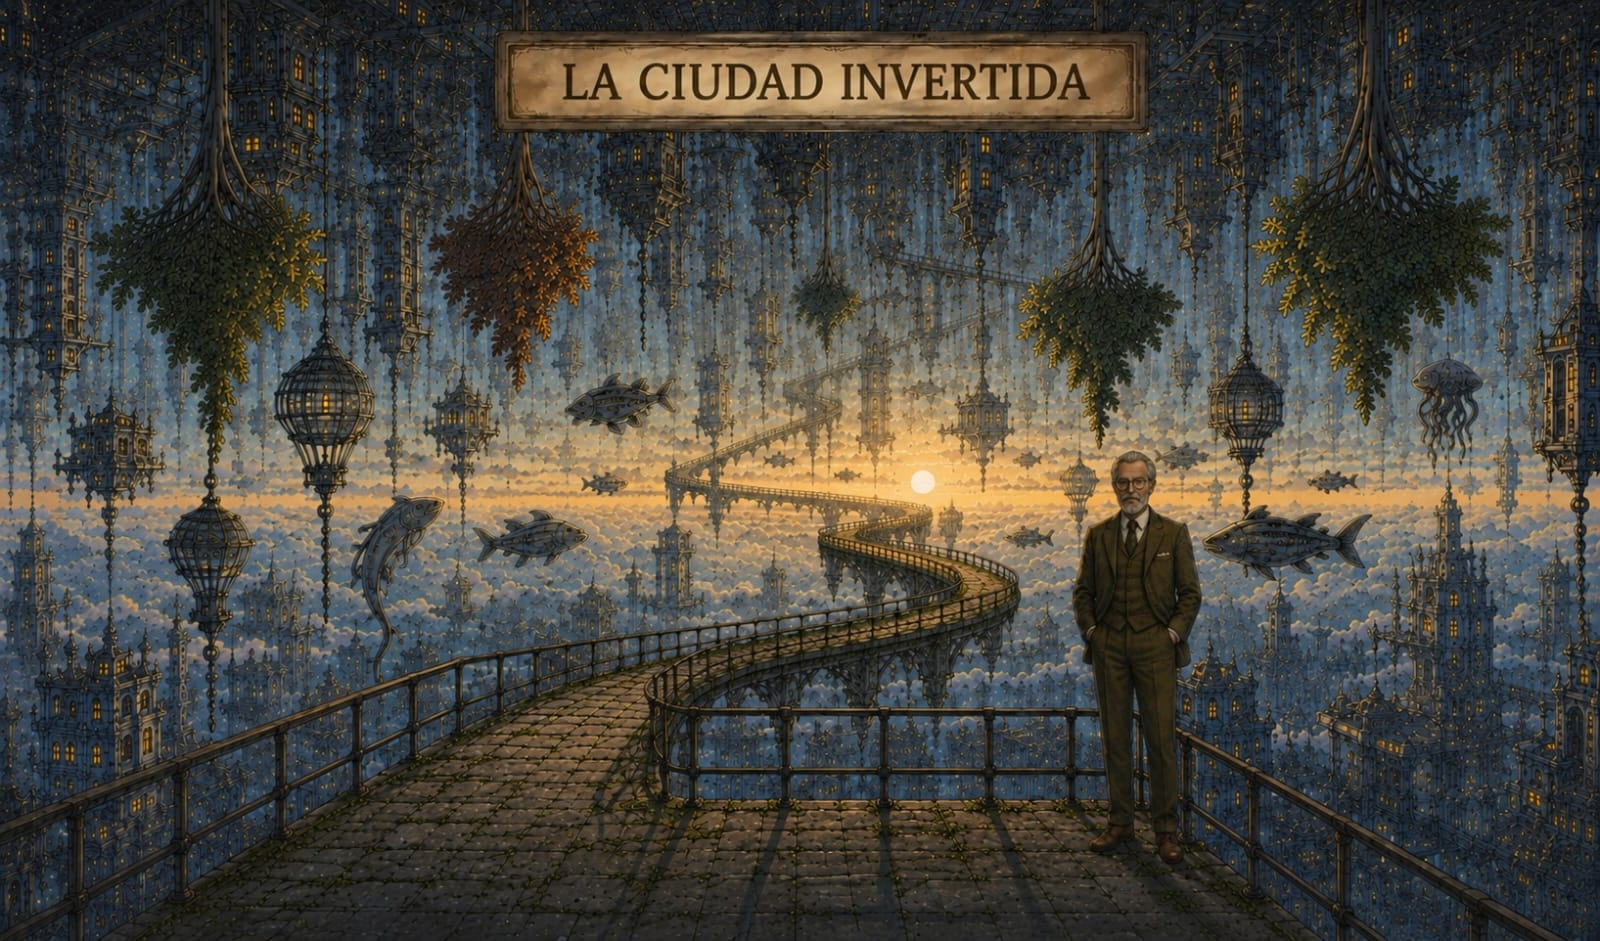
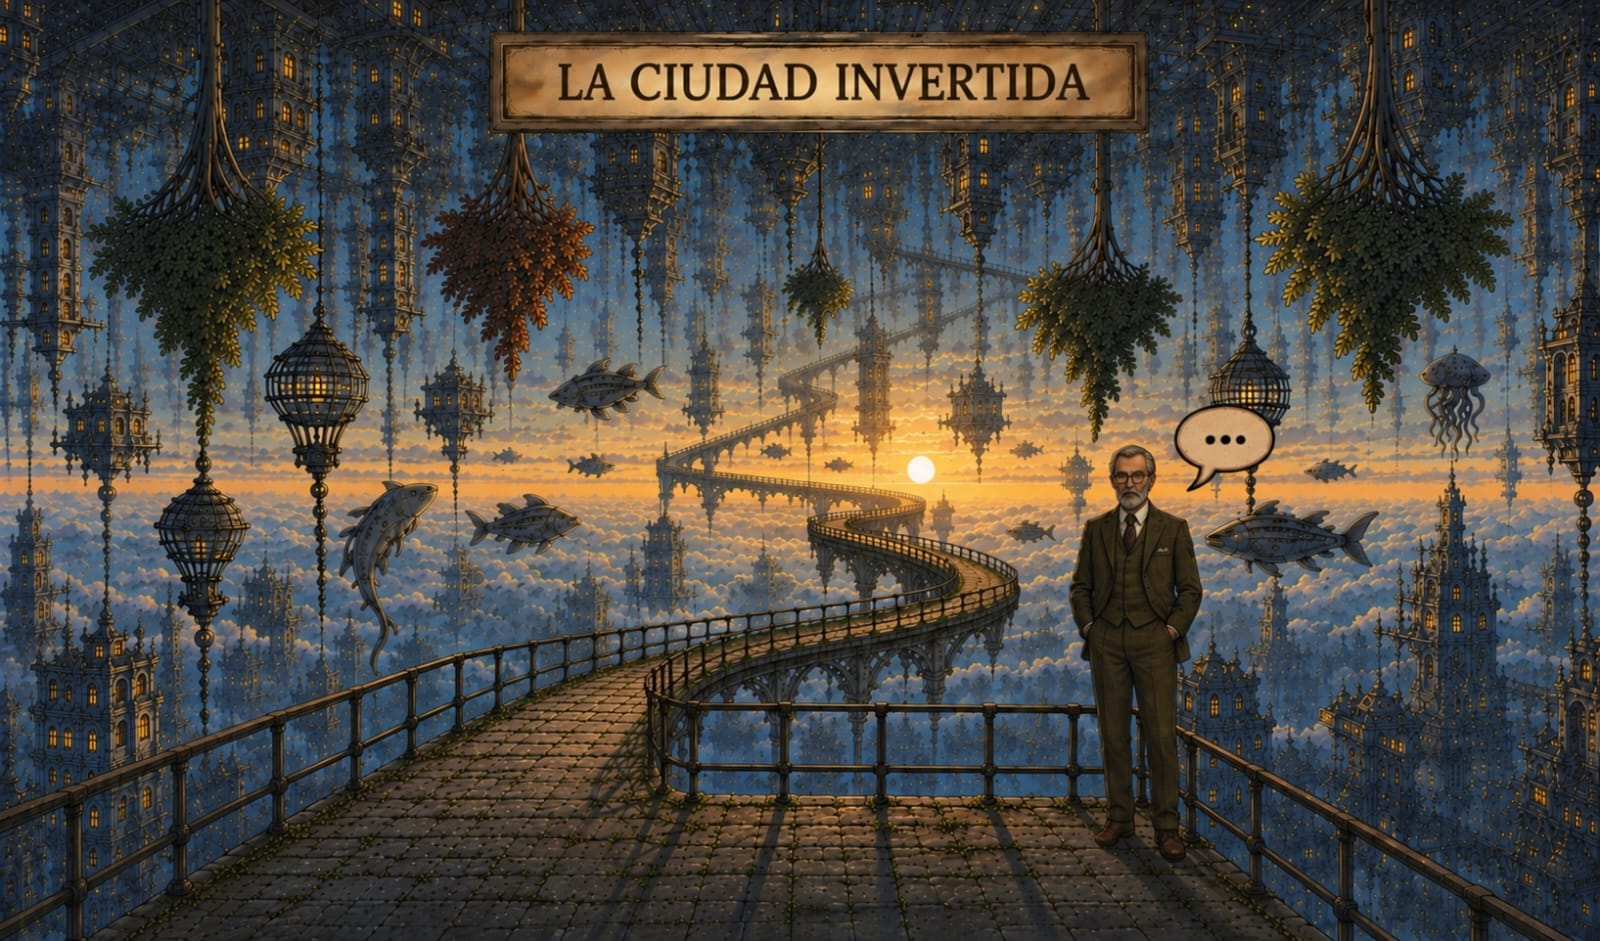
imagenes

diff --git a/Clases_POO.py b/Clases_POO.py
@@ -304,7 +304,7 @@ class Imagenes():
         #---------- IMAGENES DE CARGA GENERAL ------------------------------------
         self.inicio = self.cargar('visual/Inicio.png',1400,800)
         self.carga = self.cargar('visual/explorando_dimen.png',1400,800)
-        self.intro = self.cargar('visual/instrucciones.png',1400,800)
+        self.intro = self.cargar('visual/instrucciones.jpeg',1400,800)
         self.carga2 = self.cargar('visual/carga2.png',1400,800)
 
         #---------- HISTORIA -----------------------------------------------------
@@ -385,7 +385,7 @@ class Imagenes():
         self.vagon_archivo = self.cargar("visual/vagon_interior.jpeg",1400,800)
         self.gracias2 = self.cargar("visual/gracias2.jpeg",1400,800)
         self.maquinista_fusible = self.cargar("visual/cabina2_hablando.jpeg",1400,800)
-        self.archivo2_viejo = self.cargar("visual/archivo2_viejo.jpeg",1400,800)
+        self.archivo2_viejo = self.cargar("visual/archivo2_viejo2.jpeg",1400,800)
 
         #BIBLIOTECA
         self.puerta = self.cargar("visual/biblioteca_sumergido.jpeg",1400,800)

diff --git a/EL_parador_POO.py b/EL_parador_POO.py
@@ -147,7 +147,7 @@ imagenes_objetos = {
     "osito_objeto": imagenes.osito_transp}
 
 #----------INICIO DEL PROGRAMA-------------------------------------------------------------------------------
-pantalla_actual = "inicio" #+++++++++++++++++++++++++++++++++++++++++++++++++++++++++++++++++++++++++++++++++++++++++++
+pantalla_actual = "ciudad_invertida" #+++++++++++++++++++++++++++++++++++++++++++++++++++++++++++++++++++++++++++++++++++++++++++
 tiempo_carga = 0
 tiempo_historia = 0
 tiempo_comienzo = 0
